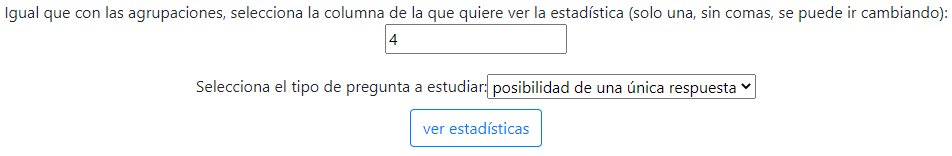
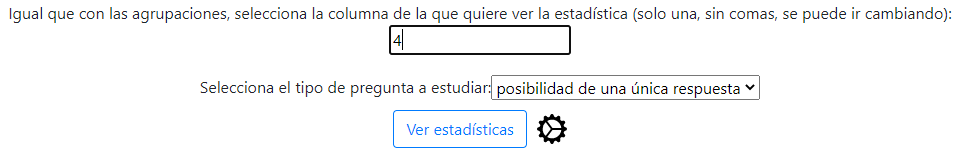
fix: Se ha mejorado el tutorial
el tutorial está mejor explicado y se ha añadido un boton que explica la funcionalidad de la página

Changed region(s): [[0.0, 0.026, 1.0, 0.3636], [0.1828, 0.4675, 0.792, 0.6494], [0.396, 0.6753, 0.6092, 0.961]]

diff --git a/tutorial.html b/tutorial.html
@@ -12,35 +12,50 @@
     <link rel="stylesheet" href="https://stackpath.bootstrapcdn.com/bootstrap/4.3.1/css/bootstrap.min.css" integrity="sha384-ggOyR0iXCbMQv3Xipma34MD+dH/1fQ784/j6cY/iJTQUOhcWr7x9JvoRxT2MZw1T" crossorigin="anonymous">
   </head>
   <body>
-    <div class="container">
-        <a href="./index.html">Volver.</a>  <br>  
-        <strong class="col-12">RESULTADO</strong>
-        <img src="resources/tutorial/resultado.png" class="col-12"></img>
-        <strong class="col-12">PASOS<br>1. Descargar el html y seleccionarlo:</strong>
-        <div class="col-10 offset-2">1.1:<img class="col-12" src="resources/tutorial/descargaexcel1.png"> </img></div>
-        <div class="col-10 offset-2">1.2:<img  class="col-12" src="resources/tutorial/descargaexcel2.png"> </img></div>
-        <div class="col-10 offset-2">1.3: guarda el archivo seleccionado en alguna carpeta:<img src="resources/tutorial/descargaexcel3.png"> </img></div>
-        <div class="col-10 offset-2">1.4: pulsa en "seleccionar archivo", seleccionalo y pulsa cargar.</div>
-        <strong class="col-12">2. Selecciona la agrupación:</strong><br>
+    <div style="text-align: justify;" class="container">
+        <nav class="nav justify-content-center">
+          <a  href="./index.html">Volver.</a>  <br> 
+          <a class="offset-6" href="./extras.html">Ver extras y aclaraciones.</a>
+        </nav>
+         <div class="row justify-content-center">
+          <i><strong style="background-color:lightsalmon;font-size:50px" class="col-12">RESULTADO</strong></i></div>
+          <div class="row justify-content-center">
+            <img src="resources/tutorial/resultado.png" class="col-8"></img>
+          </div>
+        <div class="row justify-content-center"><i><strong style="background-color:lightsalmon;font-size:50px" class="col-12">PASOS</strong></i></div>
+        <br>
+        <strong>1. Descargar el html y seleccionarlo:</strong>
+        <div class="col-10 offset-2"><strong>1.1:</strong><img class="col-sm-8 col-12"  src="resources/tutorial/descargaexcel1.png"> </img></div>
+        
+        <div style="margin-top:25px" class="col-10 offset-2"><strong>1.2:</strong><img  class="col-sm-8 col-12" src="resources/tutorial/descargaexcel2.png"> </img></div>
+        
+        <div style="margin-top:25px" class="col-10 offset-2"><strong>1.3:</strong> guarda el archivo seleccionado en cualquier carpeta de tu ordenador, ya sea arrastrándolo o extrayéndolo:
+          <img class="col-sm-12 col-12"  src="resources/tutorial/descargaexcel3.png"> </img></div>
+        
+        <div style="margin-top:25px;margin-bottom:25px;" class="col-10 offset-2"><strong>1.4:</strong> ya de vuelta en <a href="./index.html"> la página principal</a> , pulsa en "seleccionar archivo", selecciona lo que has guardado en tu ordenador y pulsa cargar.</div>
+        <strong style="margin-top:25px" class="col-12">2. Selecciona la agrupación:</strong><br>
         <div class="col-10 offset-2">
-        2.1: Vuelve al excel para saber sobre que columnas agrupar e introducelas poniendo los numeros separados por comas sin espacios --> 1,2,3<br>
-            Esto sirve para ver que han contestado a alguna pregunta por edad por genero 
-            o para ver que han contestado a una pregunta segun lo que han contestado a otra.
-            En el ejemplo si quisiera agrupar en genero y sector pondría 1,3 o si quisiera ver que contestan a la seis los que han dicho No a la cuatro pondría 4
-            <img class="col-12" src="resources/tutorial/agrupa1.png"> </img></div>
-            <div class="col-10 offset-2">
-                2.2: Quedaría como en la siguiente imagen:<img class="col-12" src="resources/tutorial/agrupa2.png"> </img></div>
+        <strong>2.1:</strong> Vuelve al excel para saber sobre qué columnas agrupar e introdúcelas en la página, poniendo los números separados por comas sin espacios --> 1,2,3 (ver la imagen justo abajo para saber que números poner)<br>
+            <br>Esto sirve para ver qué han contestado según edad, género 
+            o para ver qué han contestado a una pregunta según lo que han contestado a otra.
+            <br>En el ejemplo, si quisiera agrupar en edad y sector pondría 1,3. <br><img style="margin-top:25px"  class="col-12" src="resources/tutorial/agrupa1.png"> </img></div>
+            <div style="margin-top:25px" class="col-10 offset-2">
+                <strong>2.2:</strong> Volver a la página, introducir las columnas y pulsar en "agrupar"</div>
             
         <strong class="col-12">3. Selecciona columna a estudiar:</strong><br>
         <div class="col-10 offset-2">
-            3.1En este caso solo debes seleccionar una sin poner comas ni nada, solo el número que corresponda a la pregunta que quieres estudiar.
-            <br>Si las personas encuestadas solo podían seleccionar una deja el tipo como está, si podían seleccionar varias respuestas cambialo a multirrespuesta.
-            <br> Estos parámetros se pueden cambiar y darle a "ver estadísticas" para no tener que hacerlo de nuevo al completo 
+            <strong>3.1:</strong> En este caso solo debes seleccionar una columna sin poner comas, solo el número que corresponda a la pregunta que quieres estudiar.
+            <br><br>Si la pregunta era tipo "casillas" o "cuadrícula de casillas" cambia el tipo de pregunta a estudiar a "posibilidad de multirrespuesta"
+            <br><br> Si quieres cambiar la pregunta a estudiar solo cambia el último número introducido y dale a "ver estadísticas" para no tener que hacerlo de nuevo al completo. 
 
             </div>
-            <div class="col-10 offset-2">
-                3.2: Quedaría como en la imagen. tras esto le das a ver estadísticas y ya lo obtienes.<img class="col-12" src="resources/tutorial/agrup3.png"> </img></div>
+            <div style="margin-top:25px" class="col-10 offset-2">
+              <strong>3.2:</strong> Quedaría como en la imagen. tras esto le das a ver estadísticas y ya lo obtienes, no es necesario pulsar en la rueda para los ajustes, lo que hace se puede ver en <a href="./extras.html">extras.</a>
+              <br><img style="margin-top:25px" class="col-12" src="resources/tutorial/agrup3.png"> </img></div>
+        
+        
         </div>
+      </div>
 
         
 

diff --git a/index.html b/index.html
@@ -31,11 +31,55 @@
             <div class="row justify-content-center" style="margin-top: 50px;">
                 <a href="./tutorial.html">Aquí un tutorial de uso muy detallado.</a>
             </div>
+            <div class="row justify-content-center" style="margin-top: 25px;">
+                <a href="#dialogosirve" data-toggle="modal" data-target="#dialogosirve">¿Para qué sirve?</a>
+                <div class="modal fade" id="dialogosirve">
+                    <div class="modal-dialog modal-lg modal-dialog-centered">
+                      <div class="modal-content" style="text-align: justify;">
+                  
+                        <!-- cabecera del diálogo -->
+                        <div class="modal-header">
+                          <h4 class="modal-title">¿Para qué sirve?</h4>
+                          <button type="button" class="close" data-dismiss="modal">X</button>
+                        </div>
+                  
+                        <!-- cuerpo del diálogo -->
+                        <div class="modal-body">
+                            Es una aplicación que permite analizar en profundidad los resultados de las encuestas de GoogleForms. Se 
+                            podrá seleccionar <strong>aquellas respuestas</strong> en las que estemos interesados para <strong>combinar y segregar 
+                            sus datos</strong>. <br><br>
+                            Por ejemplo, se podrían segregar los datos por género, edad, destino de preferencia y medio 
+                            de transporte, de tal manera que podremos ver el porcentaje de respuestas de aquellas personas de género 
+                            femenino,
+                            edad entre 18-25 años que quieran viajar por España en avión.
+                            <br><br>
+                            <a href="./tutorial.html">Aquí más detallado el proceso.</a>
+                        </div>
+                  
+                        <!-- pie del diálogo -->
+                        <div class="modal-footer">
+                          <button type="button" class="btn btn-secondary" data-dismiss="modal">Cerrar</button>
+                        </div>
+                  
+                      </div>
+                    </div>
+                  </div> 
+            </div>
+
             <div class="row justify-content-center">
 
                 <script src="https://unpkg.com/@lottiefiles/lottie-player@latest/dist/lottie-player.js"></script>
-                <lottie-player src="https://assets4.lottiefiles.com/private_files/lf30_vdqxTM.json"  background="transparent"  speed="1"  style="width: 100%"  loop autoplay></lottie-player>
-        
+                <lottie-player src="https://assets4.lottiefiles.com/private_files/lf30_vdqxTM.json" id="animacion1"  background="transparent"  speed="1"    loop autoplay></lottie-player>
+                
+            </div>
+            
+            <div style="margin-top:25px" class="row justify-content-center">
+                Desarrollado por: <strong style="margin-left: 10px;"> Francisco José Perejón Barrios</strong>
+               
+            </div>
+            <div style="margin-top:25px" class="row justify-content-center">
+               Repositorio en Github: <iframe style="margin-left: 10px;" src="https://ghbtns.com/github-btn.html?user=franpb14&repo=AgrupaForm&type=watch&count=false&size=large&v=2" frameborder="0" scrolling="0" width="170" height="30" title="GitHub"></iframe>
+
             </div>
                 </div>
         <div class="desaparece">
@@ -62,7 +106,7 @@
             </div>
             <div class="row justify-content-center">
                 <script src="https://unpkg.com/@lottiefiles/lottie-player@latest/dist/lottie-player.js"></script>
-                <lottie-player src="https://assets6.lottiefiles.com/datafiles/6WfDdm3ooQTEs1L/data.json"  background="transparent"  speed="1"  style="width: 80%;"  loop autoplay></lottie-player>
+                <lottie-player src="https://assets6.lottiefiles.com/datafiles/6WfDdm3ooQTEs1L/data.json" id="animacion2"  background="transparent"  speed="1"    loop autoplay></lottie-player>
             </div>
                
         </div>
@@ -92,14 +136,7 @@
                 <input type="image" src="resources/setting.svg" style="width: 30px; margin-left: 10px;"  data-toggle="modal" data-target="#exampleModalCenter">
                 
                 </input>
-            
-            </div>
-            
-               </div>
-
-        <div id="resultado" style="margin-top: 20px;">
-            
-            <!-- Modal -->
+                <!-- Modal -->
             <div class="modal fade" id="exampleModalCenter" tabindex="-1" role="dialog" aria-labelledby="exampleModalCenterTitle" aria-hidden="true">
                 <div class="modal-dialog modal-dialog-centered" role="document">
                     <div class="modal-content">
@@ -129,7 +166,15 @@
                     </div>
                     </div>
                 </div>
-            </div>    
+            </div>  
+            
+            </div>
+            
+               </div>
+
+        <div id="resultado" style="margin-top: 20px;">
+            
+              
             <div class="row justify-content-center">
                 <strong><div id="tituloPregunta" ></div></strong>
             </div>  

diff --git a/extras.html b/extras.html
@@ -1,0 +1,53 @@
+<!doctype html>
+<html lang="en">
+  <head>
+    <title>Tutorial</title>
+    
+    <link rel="icon" type="image/png" href="resources/groupIcon.png">
+    <!-- Required meta tags -->
+    <meta charset="utf-8">
+    <meta name="viewport" content="width=device-width, initial-scale=1, shrink-to-fit=no">
+
+    <!-- Bootstrap CSS -->
+    <link rel="stylesheet" href="https://stackpath.bootstrapcdn.com/bootstrap/4.3.1/css/bootstrap.min.css" integrity="sha384-ggOyR0iXCbMQv3Xipma34MD+dH/1fQ784/j6cY/iJTQUOhcWr7x9JvoRxT2MZw1T" crossorigin="anonymous">
+  </head>
+  <body>
+    <div class="container">
+        <nav class="nav justify-content-center">
+            
+            <a href="./tutorial.html">Volver al tutorial.</a>
+            <a  class="offset-6"  href="./index.html">Volver a inicio.</a>  <br> 
+          </nav>
+        <strong id="extras" class="col-12">4. Extras y aclaraciones:</strong><br>
+        <div class="row justify-content-center">
+          <i><strong style="background-color:lightsalmon;font-size:50px" class="col-12">ACLARACIONES</strong></i></div>
+        <div class="col-10 offset-2">
+            <br> <strong>4.5. Comentarios: </strong> No funcionan con los comentarios ni con respuestas cortas o parrafos.
+            <br> <strong>4.6. Problema con las multirrespuestas: </strong>Si una pregunta multirrespuesta, en una de las opciones aparece una coma, esta opción no va a funcionar.
+            <br> <strong>4.7. NaN%:</strong> Si aplicando filtros aparece esto, significa que no hay respuestas que cumplan dichos filtros.
+          </div>
+        <div class="row justify-content-center">
+          <i><strong style="background-color:lightsalmon;font-size:50px" class="col-12">EXTRAS</strong></i></div>
+        <div class="col-10 offset-2">
+            <strong>4.1 Ajustes:</strong> pulsando en la ruedecita puedes elegir los colores y la visualización, en el caso de que ya hayas cargado la estadística simplemente tienes que volver a pulsar "ver estadísticas" tras guardar el cambio.
+            <br>
+            <strong>4.1.1. Ajustes - color:</strong> puedes añadir colores que prefieras para la gráfica, tanto en formato hexadecimal(#8FBC8F) como rgb (rgb(0,185,84)), tienes que añadirlo separados por comas y sin espacios, tal como está de ejemplo. Hay una lista precargada de diez colores, si añades 1 o más se sustituye esta lista por los añadidos.
+            <br><strong>4.1.2. Ajustes - visualización:</strong> solo para aquellas preguntas que solo haya una posibilidad de respuesta, puedes elegir si verlo con forma de donut, de barras o de tarta.
+            <br> <strong>4.2. Escala líneal:</strong> También funcionan con la escala líneal, para ello selecciona su columna y deja la opción del tipo que viene por defecto (posibilidad de una única respuesta) 
+            <br> <strong>4.3. Cuadrícula de varias opciones:</strong> Igual que el anterior, solo que veras las columnas repetidas, la primera es la primera fila y así.
+            <br> <strong>4.4. Cuadrícula de casillas:</strong> Igual que el anterior, pero debes seleccionar la opción de posibilidad de "posibilidad de multirrespuesta."
+        </div>    
+        
+        </div>
+      </div>
+
+        
+
+    </div>
+    <!-- Optional JavaScript -->
+    <!-- jQuery first, then Popper.js, then Bootstrap JS -->
+    <script src="https://code.jquery.com/jquery-3.3.1.slim.min.js" integrity="sha384-q8i/X+965DzO0rT7abK41JStQIAqVgRVzpbzo5smXKp4YfRvH+8abtTE1Pi6jizo" crossorigin="anonymous"></script>
+    <script src="https://cdnjs.cloudflare.com/ajax/libs/popper.js/1.14.7/umd/popper.min.js" integrity="sha384-UO2eT0CpHqdSJQ6hJty5KVphtPhzWj9WO1clHTMGa3JDZwrnQq4sF86dIHNDz0W1" crossorigin="anonymous"></script>
+    <script src="https://stackpath.bootstrapcdn.com/bootstrap/4.3.1/js/bootstrap.min.js" integrity="sha384-JjSmVgyd0p3pXB1rRibZUAYoIIy6OrQ6VrjIEaFf/nJGzIxFDsf4x0xIM+B07jRM" crossorigin="anonymous"></script>
+  </body>
+</html>

diff --git a/resources/sheet.css b/resources/sheet.css
@@ -12,6 +12,24 @@
     left:-2500px;
     transition:left 1s linear;
 }
+#animacion1{
+    margin-left:20%;
+    width: 75%;
+}
+#animacion2{
+    margin-left:10%;
+    width: 60%;
+}
 #resultado{
     opacity: 0;
 }
+@media only screen and (max-width: 600px) {
+    #animacion2 {
+      width:100%;
+      margin-left: 0%;
+    }
+    #animacion1{
+        margin-left:0%;
+        width: 100%;
+    }
+  }
